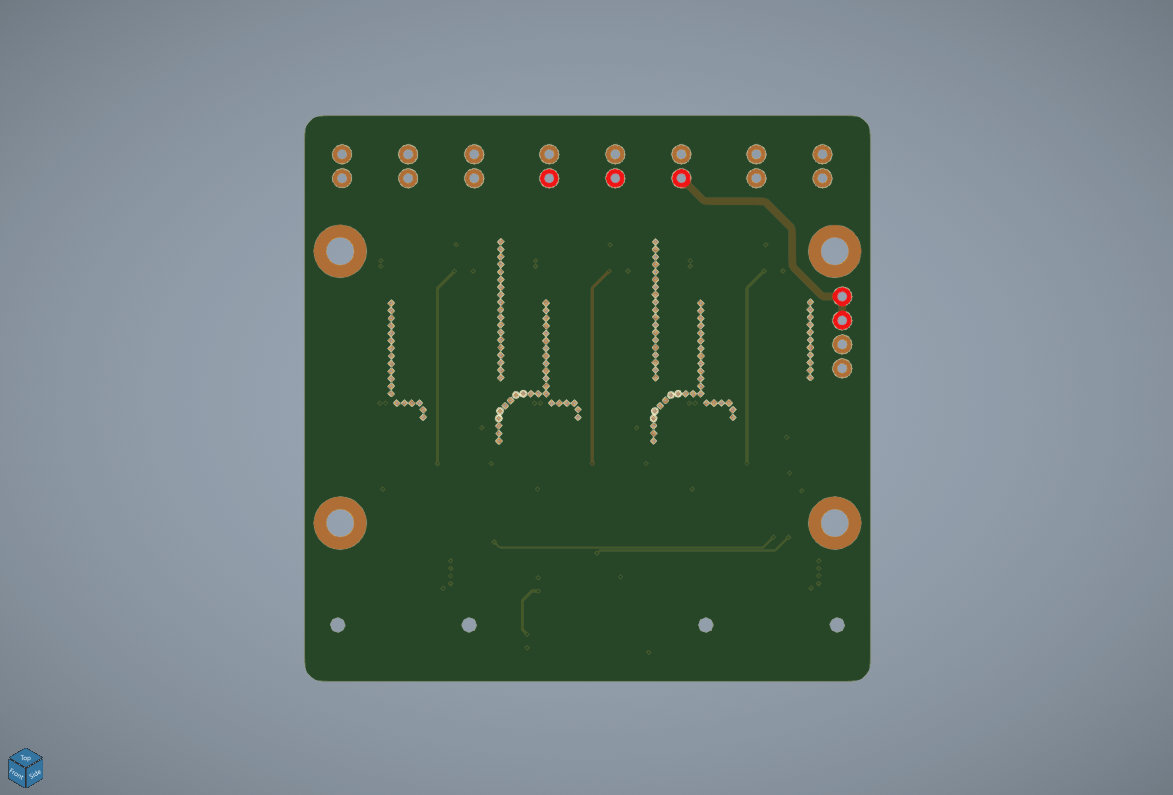
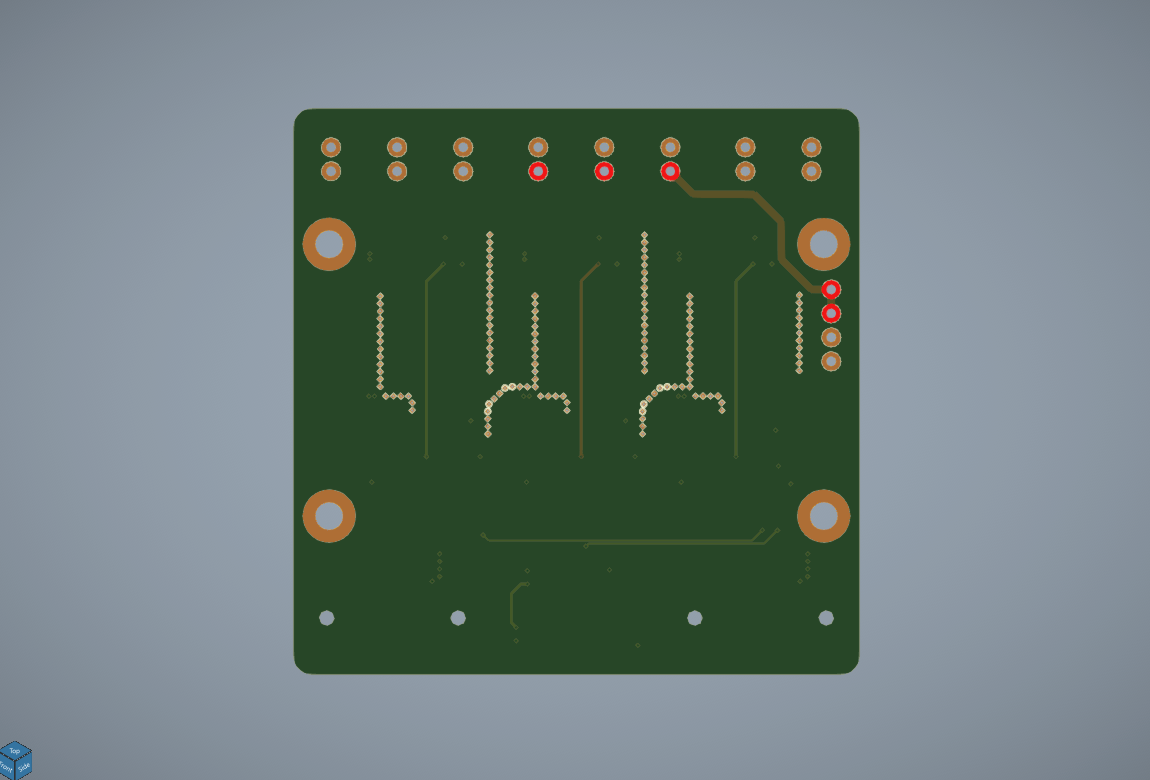
Adjusted images resolution to 1150x780

diff --git a/README.md b/README.md
@@ -6,6 +6,8 @@
 
 </div>
 
+<div style="text-align: justify">
+
 > [!WARNING]
 > Attention! This project is currently under rapid development so some of the content below might be not yet available or incorrect. If you are interested in the project and/or the development of the following, add the repo to your watch list and star it!
 
@@ -73,12 +75,13 @@ Since this system is also battery powered, it needs to be efficient, so the enti
 
 The PSU inside the Pulsar is a 4 layer, 60 x 60 mm PCB with 3, up to 3 A each, DC to DC rails and a ideal diode controller that can hot-swap between two power sources at voltages ranging from 8 V to 16 V. Each rail's switching controller can be chosen between a 3 A variant and a 2 A one, depending on projected consumption. On my design I decided to go with a 3 A, 5.0 V rail and a 2 A, 3.3 V. Based on simulations the 3.3 V rail can reach 94.8% efficiency at 50% load.
 
-![PCB top view](./Images/dcdc-toppcb.png)
-
+<div align="center">
 <p float="left">
+    <img src="./Images/dcdc-toppcb.png" width="98%">
     <img src="./Images/dcdc-topiso.png" width="49%">
     <img src="./Images/dcdc-bottomiso.png" width="49%">
 </p>
+</div>
 
 ### Case
 
@@ -98,3 +101,5 @@ Particular PCB requirements and generic informations are provided here:
 ## Operation
 
 In the midst of this chapter you will find some suggestions regarding the ways of the firmware.
+
+</div>
